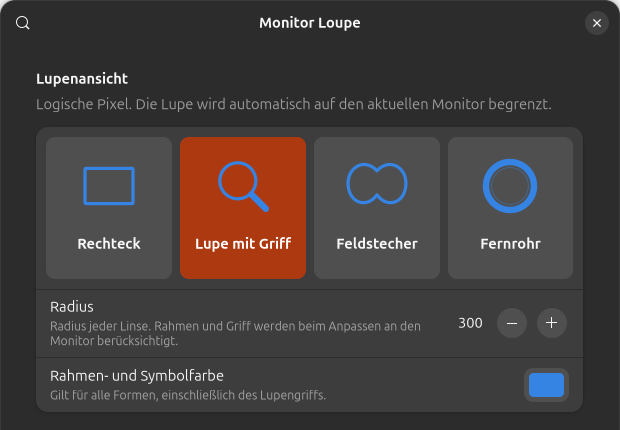
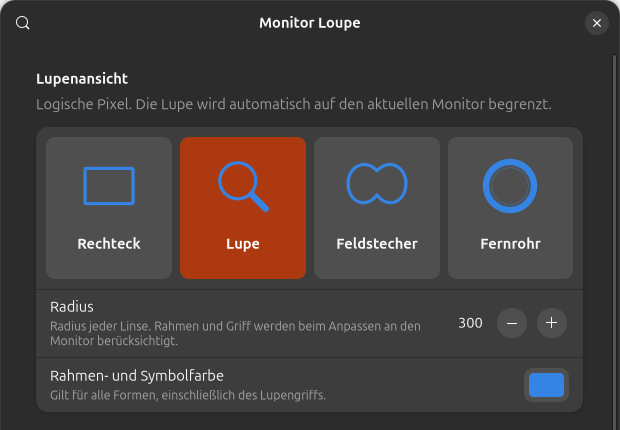
Shorten lens label to Lupe and Magnifier

Changed region(s): [[0.9806, 0.1209, 1.0, 1.0], [0.3065, 0.5442, 0.4903, 0.6047]]

diff --git a/prefs.js b/prefs.js
@@ -23,7 +23,7 @@ export default class MonitorLoupePreferences extends ExtensionPreferences {
         });
         page.add(lens);
         const shapes = ['rectangle', 'loupe', 'binoculars', 'telescope'];
-        const titles = [_('Rectangle'), _('Magnifying glass'), _('Binoculars'), _('Telescope')];
+        const titles = [_('Rectangle'), _('Magnifier'), _('Binoculars'), _('Telescope')];
         const shapeGrid = new Gtk.Box({
             orientation: Gtk.Orientation.HORIZONTAL, homogeneous: true,
             spacing: 8, margin_top: 8, margin_bottom: 8,

diff --git a/README.de.md b/README.de.md
@@ -7,7 +7,7 @@ bleibt. Auch der vergrößerte Quellbereich bleibt innerhalb dieses Monitors.
 
 ## Wähle deine Lupenansicht
 
-| Rechteck | Lupe mit Griff | Feldstecher | Fernrohr |
+| Rechteck | Lupe | Feldstecher | Fernrohr |
 | :---: | :---: | :---: | :---: |
 | ![Rechteck-Symbol](docs/icons/rectangle.svg) | ![Lupen-Symbol](docs/icons/loupe.svg) | ![Feldstecher-Symbol](docs/icons/binoculars.svg) | ![Fernrohr-Symbol](docs/icons/telescope.svg) |
 | Klassische rechteckige Ansicht | Runde Linse mit Griff | Zwei überlappende Linsen | Runde Ansicht mit breitem Rahmen |
@@ -30,7 +30,7 @@ Aktuelle Aufnahmen des Einstellungsfensters, jeweils mit dem Bereich „Lupenans
 
 **Runde Formen — Radius und Farbe**
 
-![Einstellungen der Lupe mit Griff, Radius und Farbauswahl](docs/preferences-round-de.png)
+![Einstellungen der Lupe, Radius und Farbauswahl](docs/preferences-round-de.png)
 
 Klicke auf das Farbfeld, um eine Farbe auszuwählen. Mit Rahmendicke **0** blendest
 du den Rechteckrahmen aus. Änderungen an der Ansicht werden sofort übernommen.
@@ -56,7 +56,7 @@ gnome-extensions prefs monitor-loupe@sprites.github.io
   Zoomschritt. Zunächst sind keine belegt, um bestehende Kürzel zu erhalten.
   Kürzel anklicken und die neue Kombination drücken. Rücktaste deaktiviert,
   Escape bricht ab. Eine noch freie Kombination wählen.
-- **Form:** Rechteck (Standard), runde Lupe mit Griff, Feldstecher mit zwei
+- **Form:** Rechteck (Standard), runde Lupe, Feldstecher mit zwei
   überlappenden Linsen oder Fernrohr. Außerhalb der Form
   bleibt der normale Desktop sichtbar.
 - **Radius:** für die runden Formen von 60 bis 2160 logischen Pixeln wählbar,

diff --git a/README.md b/README.md
@@ -8,9 +8,9 @@ edges and with displays arranged above, below or to the left of each other.
 
 ## Choose your lens
 
-| Rectangle | Magnifying glass | Binoculars | Telescope |
+| Rectangle | Magnifier | Binoculars | Telescope |
 | :---: | :---: | :---: | :---: |
-| ![Rectangle icon](docs/icons/rectangle.svg) | ![Magnifying glass icon](docs/icons/loupe.svg) | ![Binoculars icon](docs/icons/binoculars.svg) | ![Telescope icon](docs/icons/telescope.svg) |
+| ![Rectangle icon](docs/icons/rectangle.svg) | ![Magnifier icon](docs/icons/loupe.svg) | ![Binoculars icon](docs/icons/binoculars.svg) | ![Telescope icon](docs/icons/telescope.svg) |
 | Classic rectangular view | Round lens with a handle | Two overlapping lenses | Round view with a broad rim |
 | Width, height and frame thickness | Adjustable radius | Adjustable radius per lens | Adjustable radius |
 
@@ -42,7 +42,7 @@ Actual captures of the current preferences window (appearance section).
 
 **Round shapes — radius and color**
 
-![Magnifying glass preferences with radius and color](docs/preferences-round-en.png)
+![Magnifier preferences with radius and color](docs/preferences-round-en.png)
 
 Click the color swatch to choose a color. Set rectangle frame thickness to **0**
 to hide its border. Appearance changes apply immediately.
